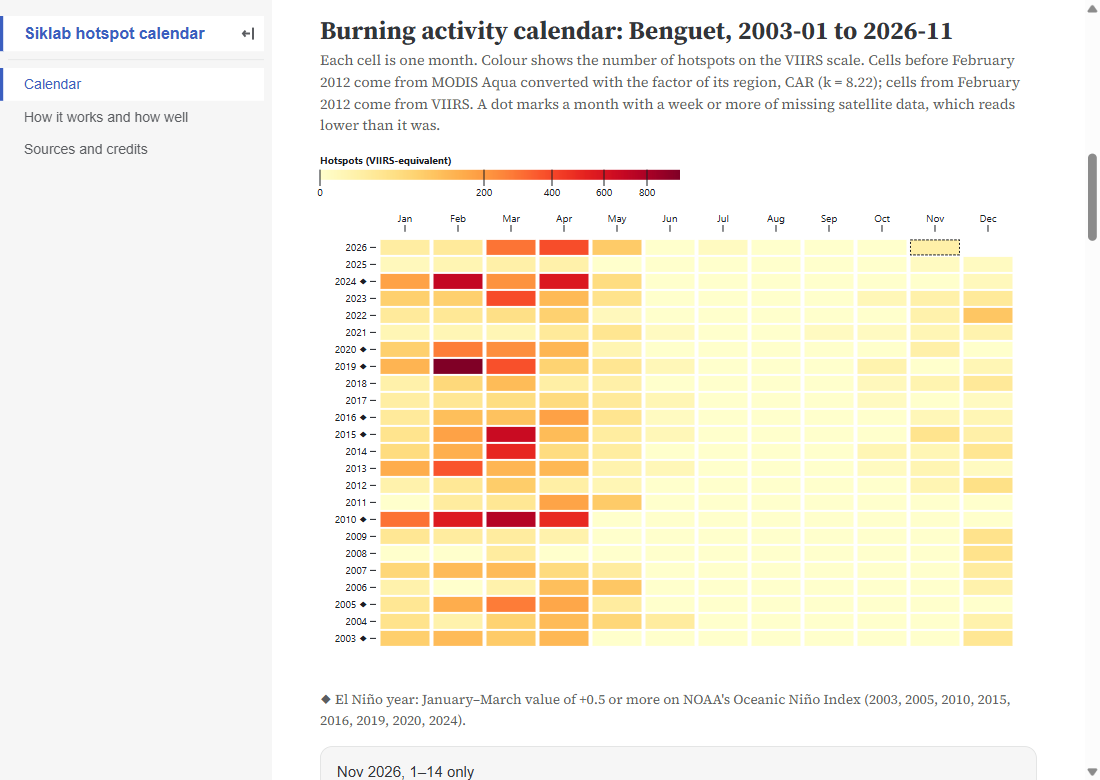
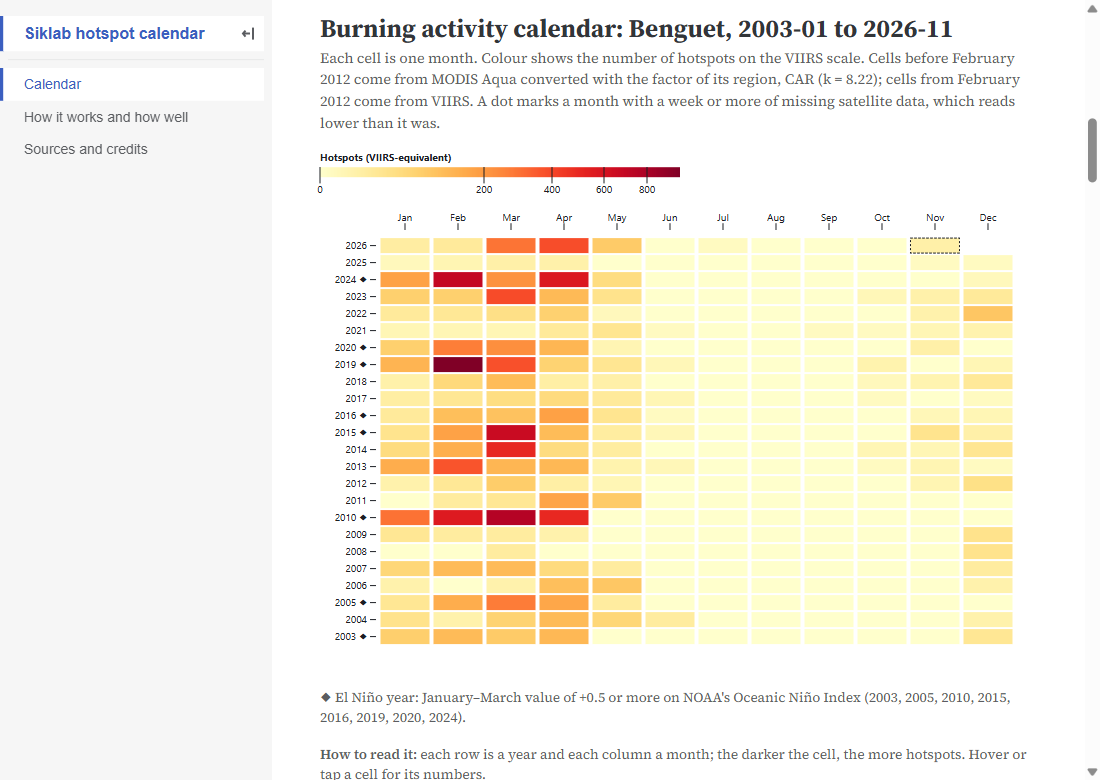
Screenshots retaken from the built site in the new design; README opens with a screenshot of the calendar page

diff --git a/README.md b/README.md
@@ -1,5 +1,7 @@
 # Siklab hotspot calendar
 
+![The calendar page: the header band with the El Niño ratio, the test error and the length of the record, the fire-season ribbon, ready-made views and the controls](src/img/app-home.png)
+
 A harmonised burning activity calendar for the Philippines, built from NASA FIRMS active fire hotspots during the NASA Space Apps Challenge 2026 (14–15 November 2026, Manila local event, challenge "Harmonization of MODIS and VIIRS Hot Spots") by team Siklab.
 
 MODIS and VIIRS count fire very differently: over the Philippines, VIIRS on Suomi NPP reports about ten hotspots for every one that MODIS on Aqua reports. This project converts the MODIS record (2003 to January 2012) onto the VIIRS scale with a factor per region, fitted on the years both satellites flew, so that one monthly series runs from January 2003 to the latest month for any of the 17 regions and 87 province-level areas (81 provinces, Metro Manila's four districts, Isabela City and Cotabato City), or for a box drawn on the map.
